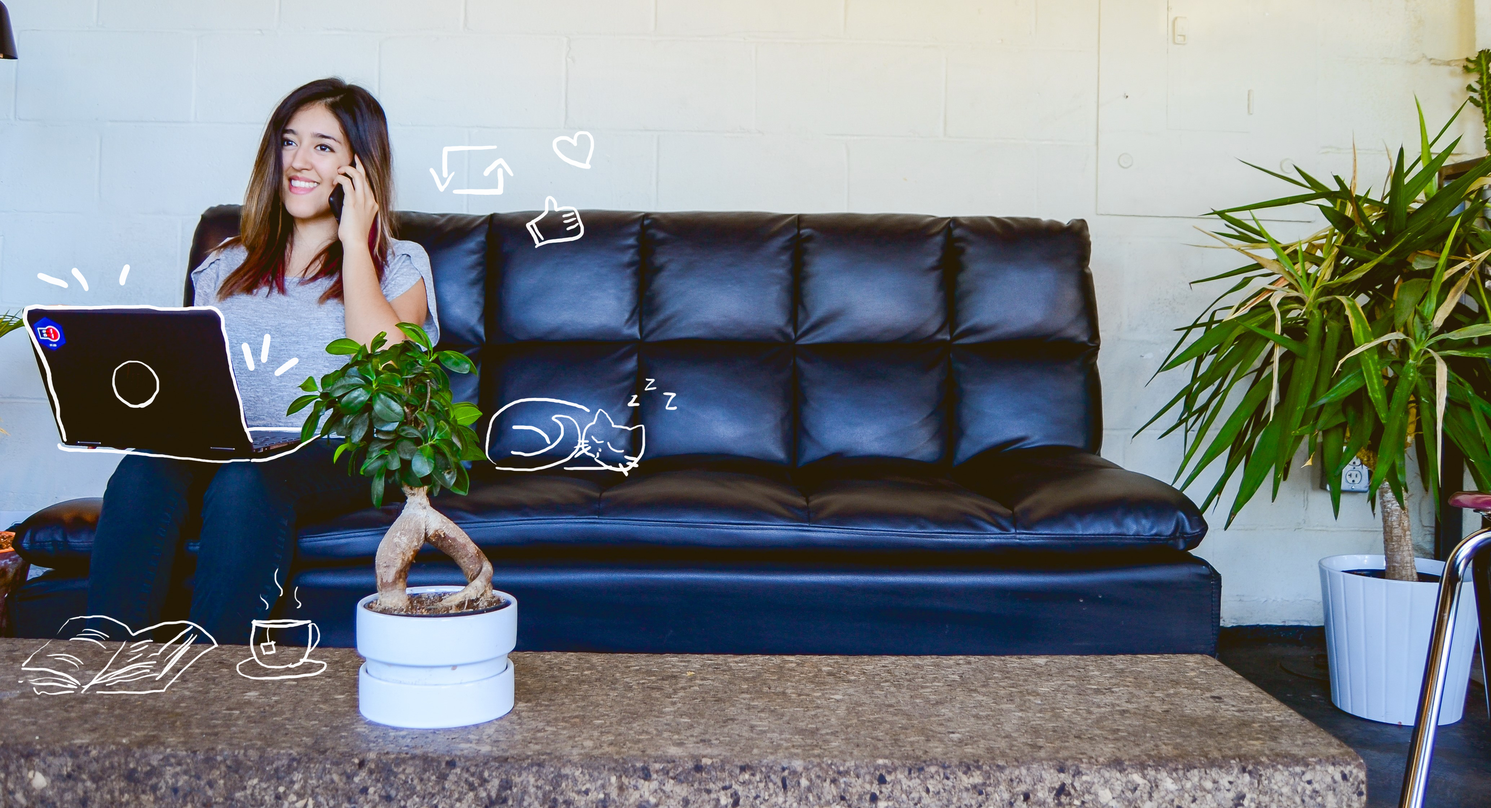
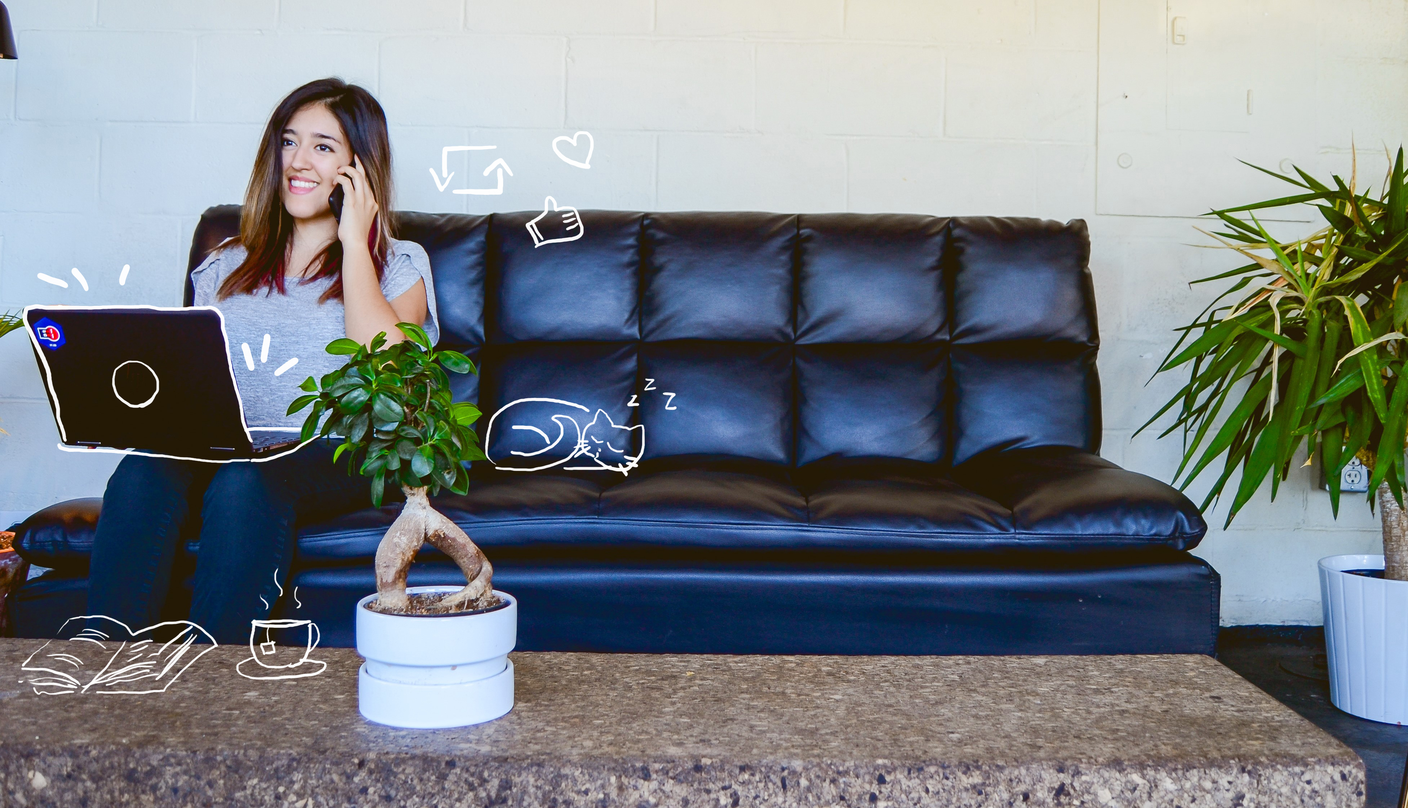
cleaning up code and files
deleting extra files and making adjustments to style sheet.

diff --git a/src/index.html b/src/index.html
@@ -6,6 +6,8 @@
         <link rel="icon" href="./img/favicon.ico" type="image/x-icon">
         <meta charset="utf-8" />
         <meta name="viewport" content="width=device-width, initial-scale=1.0" />
+        <link rel="stylesheet" href="https://maxcdn.bootstrapcdn.com/font-awesome/4.7.0/css/font-awesome.min.css">
+        <link href="https://fonts.googleapis.com/css?family=Montserrat:400,700" rel="stylesheet">
 
         <!-- Open Graph Data -->
         <meta property="og:title" content="👩🏻💻 #MelissaCodes: Digital Marketing, Front End Development"/>
@@ -20,7 +22,6 @@
         <meta name="twitter:description" content="Creative web development and digital marketing services for your organization. Drop me a line!"/>
         <meta name="twitter:url" content="https://hashtagmelissacodes.com"/>
         <meta name="twitter:image" content="https://www.hashtagmelissacodes.com/img/preview.png"/>
-        <link rel="stylesheet" href="https://maxcdn.bootstrapcdn.com/font-awesome/4.7.0/css/font-awesome.min.css">
     </head>
     <body>
       <header>
@@ -36,11 +37,11 @@
       </header>
       <section id="hero">
           <div class="content" id="hero-content">
-            <h1>MAKE YOUR WEBSITE <br>HAPPEN</h1>
+            <h1>TURNING WEBSITE IDEAS <br>INTO REALITY</h1>
             <p>I help businesses and organizations create engaging and creative websites. Let's take your web design ideas from concept to completion, and improve your online presence through digital marketing strategies.</p>
             <a class="button" href="mailto:contact@hashtagmelissacodes.com">Let's chat!</a>
           </div>
-          <img src="img/call-img1.jpg" alt="Melissa on a call photo">
+          <img src="img/hero-img.jpg" alt="Laptop and coffee photo">
       </section>
       <section id="about">
         <img src="img/about-img.jpg" alt="Melissa working on code">
@@ -64,7 +65,7 @@
             <li class="service">
                 <i class="fa fa-id-card" aria-hidden="true"></i>
                 <h3>Content Creation</h3>
-                <p>Delight your audience by creating content that offers value and aligns with your customers' needs. I assist clients in sharing their value and expertise by creating e-books, blog posts, helpful videos, and social media posts, slide decks, and more.</p>
+                <p>Delight your audience by creating content that offers value and aligns with your customers' needs. I assist clients in sharing their value and expertise by creating e-books, blog posts, helpful videos, social media posts, slide decks, and more.</p>
             </li>
           </ul>
       </section>
@@ -90,7 +91,7 @@
       </section>
       <section id="contact">
         <div class="content" id="contact-info">
-            <h1>LET'S HAVE COFFEE</h1>
+            <h1>LET'S CHAT!</h1>
             <p>If you're ready to create a business website or a content strategy that will delight your visitors and engage them with your brand, let's get in touch! <a href="mailto:contact@hashtagmelissacodes.com">Send me an email</a> or connect with me on social media:</p>
             <ul>
               <li>
@@ -120,7 +121,7 @@
               </li>
             </ul>
         </div>
-        <img src="img/connect-img.jpg" alt="laptop and coffee photo">
+        <img src="img/call-img1.jpg" alt="Melissa on a call photo">
       </section>
     <footer>
         <p>&copy;Melissa Arroyo, 2018</p>

diff --git a/src/styles.css b/src/styles.css
@@ -11,7 +11,6 @@ Color Palette: https://mycolor.space/?hex=%23424250&sub=1
 
 /* ---------------- BASE STYLES ------------------------ */
 
-@import url('https://fonts.googleapis.com/css?family=Montserrat:400:700');
 
 body {
     margin: 0 auto;
@@ -22,7 +21,11 @@ body {
 }
 
 .content {
-    padding: 1.5em;
+    padding: 3em;
+}
+
+.content p {
+    width: 75%;
 }
 
 section#hero, section#contact {
@@ -32,8 +35,8 @@ section#hero, section#contact {
 
 h1 {
     color: #424250;
-    letter-spacing: .10em;
-    font-size: 1.65em;
+    font-size: 2.25em;
+    font-weight: 700;
   }
 
 p {
@@ -111,7 +114,7 @@ nav li a {
 
 section#hero {
     display: grid;
-    grid-template-columns: 30% auto;
+    grid-template-columns: 1fr 1fr;
 }
 
 #hero img {
@@ -243,6 +246,14 @@ footer p {
 
 /* ---------------- TABLET STYLES ------------------- */
 @media screen and (max-width: 60em) {
+    .content {
+        padding: 1em;
+    }
+
+    .content p {
+        width: 100%;
+    }
+    
     .button {
         padding: .75em 1em;
         margin-top: 1em;
@@ -314,7 +325,7 @@ footer p {
 }
 
 /* ---------------- SMARTPHONE STYLES ------------------- */
-@media screen and (max-width: 40em) {
+@media screen and (max-width: 40em) {   
     /* Header */
     p {
         padding: 0 0 1em 0;
